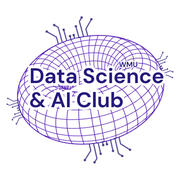
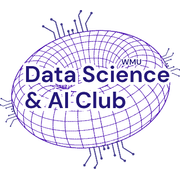
Add branded OG card and fix remaining meta/SEO gaps
Social previews now use a purpose-built 1200x630 card: the spring '26 club
photo with the logo and name stamped into a cream footer band. JPEG rather
than WebP because a few crawlers still skip WebP previews.

Also:
- trim the description to 152 chars so it isn't truncated in search results
- add theme-color and a web app manifest
- add a 32x32 favicon plus 192/512 manifest icons, all regenerated from the
  transparent logo trimmed to its artwork bounds

diff --git a/scripts/create-favicon.js b/scripts/create-favicon.js
@@ -1,26 +1,35 @@
+// Regenerates every raster icon from the club logo:
+//
+//     node scripts/create-favicon.js
+//
+// favicon.ico is not produced here (sharp can't write ICO) — the PNG + apple
+// icons cover every modern browser, and app/favicon.ico stays as the fallback.
 const sharp = require('sharp');
-const fs = require('fs');
 const path = require('path');
 
-async function createFavicon() {
-  try {
-    // Path to the source image (white-background club logo)
-    const inputPath = path.join(__dirname, '../public/dsaic-logo-white.png');
-    // Path to save the favicon.ico
-    const outputPath = path.join(__dirname, '../public/favicon.ico');
-    
-    // Resize to 32x32 (standard favicon size) and convert to ICO
-    await sharp(inputPath)
-      .resize(32, 32)
-      .toFile(outputPath.replace('.ico', '.png'));
-    
-    console.log('Favicon created successfully!');
-    console.log('Note: Since sharp cannot directly output .ico format, we\'ve created a PNG.');
-    console.log('You\'ll need to manually convert this to ICO using a tool like https://convertio.co/png-ico/');
-    
-  } catch (error) {
-    console.error('Error creating favicon:', error);
-  }
-}
+// The transparent logo, trimmed to its artwork bounds and flattened onto white —
+// the padded white-background copy wastes pixels that matter at 32x32.
+const SOURCE = path.join(__dirname, '../public/dsaic-logo.png');
 
-createFavicon();
+const ICONS = [
+  ['favicon-32x32.png', 32],
+  ['favicon.png', 64],
+  ['apple-touch-icon.png', 180],
+  ['icon-192.png', 192],
+  ['icon-512.png', 512],
+];
+
+Promise.all(
+  ICONS.map(([name, size]) =>
+    sharp(SOURCE)
+      .trim()
+      .resize(size, size, { fit: 'contain', background: '#ffffff00' })
+      .flatten({ background: '#ffffff' })
+      .png()
+      .toFile(path.join(__dirname, '../public', name))
+      .then(() => console.log(`wrote public/${name} (${size}x${size})`))
+  )
+).catch((error) => {
+  console.error(error);
+  process.exit(1);
+});

diff --git a/app/layout.tsx b/app/layout.tsx
@@ -1,9 +1,9 @@
-import type { Metadata } from "next";
+import type { Metadata, Viewport } from "next";
 import Script from "next/script";
 import "./globals.css";
 import SmoothScroll from "@/components/SmoothScroll";
 import { Inter, Space_Grotesk, JetBrains_Mono } from 'next/font/google';
-import { SITE_URL, SITE_NAME, SITE_DESCRIPTION, SOCIAL_LINKS, SOCIAL_IMAGE } from "@/lib/site";
+import { SITE_URL, SITE_NAME, SITE_DESCRIPTION, SOCIAL_LINKS, SOCIAL_IMAGE, THEME_COLOR } from "@/lib/site";
 
 // Define fonts with next/font. Only ship the weights actually used on the
 // site — the hero heading is the LCP element, so every extra font byte
@@ -69,6 +69,7 @@ export const metadata: Metadata = {
         width: SOCIAL_IMAGE.width,
         height: SOCIAL_IMAGE.height,
         alt: SOCIAL_IMAGE.alt,
+        type: SOCIAL_IMAGE.type,
       },
     ],
   },
@@ -90,13 +91,20 @@ export const metadata: Metadata = {
   },
   icons: {
     icon: [
-      { url: "/favicon.png", type: "image/png" },
+      { url: "/favicon-32x32.png", sizes: "32x32", type: "image/png" },
+      { url: "/favicon.png", sizes: "64x64", type: "image/png" },
     ],
     shortcut: "/favicon.png",
     apple: [
       { url: "/apple-touch-icon.png", sizes: "180x180", type: "image/png" },
     ],
   },
+  manifest: "/manifest.webmanifest",
+};
+
+// Tints the mobile browser toolbar to match the site.
+export const viewport: Viewport = {
+  themeColor: THEME_COLOR,
 };
 
 // schema.org structured data — gives search engines and AI agents a machine-readable

diff --git a/lib/site.ts b/lib/site.ts
@@ -10,8 +10,9 @@ export const SITE_URL = (
 
 export const SITE_NAME = 'Data Science & AI Club at WMU';
 
+// Kept under 160 characters so search results and link previews show it whole.
 export const SITE_DESCRIPTION =
-  'Student club at Western Michigan University focused on data science, AI, and machine learning. Open to all majors — collaborate on real-world projects, connect with industry, and learn together.';
+  'Student club at Western Michigan University for data science, AI, and machine learning. Open to all majors — build real projects, connect with industry.';
 
 // Official social / organization profiles, surfaced to crawlers and AI agents
 // via schema.org `sameAs`.
@@ -22,10 +23,16 @@ export const SOCIAL_LINKS = [
   'https://github.com/Data-Science-Club-at-WMU',
 ];
 
-// Landscape image used for link previews (Open Graph / Twitter cards).
+// Link preview card (Open Graph / Twitter). Built by scripts/create-og-image.py
+// at the 1200x630 every platform crops to. JPEG rather than WebP because a few
+// crawlers (notably LinkedIn) still skip WebP previews.
 export const SOCIAL_IMAGE = {
-  url: '/club-spring-26.webp',
-  width: 1310,
-  height: 922,
+  url: '/og-image.jpg',
+  width: 1200,
+  height: 630,
   alt: 'Members of the Data Science & AI Club at Western Michigan University',
+  type: 'image/jpeg',
 };
+
+// Brand color for the mobile browser toolbar and the web app manifest.
+export const THEME_COLOR = '#25197A';

diff --git a/app/manifest.ts b/app/manifest.ts
@@ -1,0 +1,21 @@
+import type { MetadataRoute } from "next";
+import { SITE_NAME, SITE_DESCRIPTION, THEME_COLOR } from "@/lib/site";
+
+// Served at /manifest.webmanifest — enables "Add to Home Screen" on Android
+// and gives the installed app its name, icons, and colors.
+export default function manifest(): MetadataRoute.Manifest {
+  return {
+    name: SITE_NAME,
+    short_name: "DSAIC",
+    description: SITE_DESCRIPTION,
+    start_url: "/",
+    display: "standalone",
+    background_color: "#FAF6EE",
+    theme_color: THEME_COLOR,
+    icons: [
+      { src: "/icon-192.png", sizes: "192x192", type: "image/png" },
+      { src: "/icon-512.png", sizes: "512x512", type: "image/png" },
+      { src: "/icon-512.png", sizes: "512x512", type: "image/png", purpose: "maskable" },
+    ],
+  };
+}

diff --git a/scripts/create-og-image.py b/scripts/create-og-image.py
@@ -1,0 +1,76 @@
+#!/usr/bin/env python3
+"""Build the 1200x630 social share card: club photo + branded footer band.
+
+    python3 scripts/create-og-image.py
+
+Writes public/og-image.jpg. Space Grotesk (the site heading font) is fetched
+from Google Fonts once and cached in .cache/fonts/.
+"""
+
+import urllib.request
+from pathlib import Path
+
+from PIL import Image, ImageDraw, ImageFont
+
+ROOT = Path(__file__).resolve().parent.parent
+PHOTO = ROOT / "public" / "club-spring-26.webp"
+LOGO = ROOT / "public" / "dsaic-logo.png"
+OUT = ROOT / "public" / "og-image.jpg"
+FONT_DIR = ROOT / ".cache" / "fonts"
+
+FONT_URLS = {
+    "SpaceGrotesk-Bold.ttf": "https://fonts.gstatic.com/s/spacegrotesk/v22/V8mQoQDjQSkFtoMM3T6r8E7mF71Q-gOoraIAEj4PVksj.ttf",
+    "SpaceGrotesk-Medium.ttf": "https://fonts.gstatic.com/s/spacegrotesk/v22/V8mQoQDjQSkFtoMM3T6r8E7mF71Q-gOoraIAEj7aUUsj.ttf",
+}
+
+W, H = 1200, 630
+BAND_H = 150          # footer band height
+RULE_H = 5            # violet rule on top of the band
+PAD = 52              # left/right padding inside the band
+CREAM = (250, 246, 238)
+INK = (37, 25, 122)
+VIOLET = (114, 67, 193)
+
+
+def font(name, size):
+    path = FONT_DIR / name
+    if not path.exists():
+        FONT_DIR.mkdir(parents=True, exist_ok=True)
+        urllib.request.urlretrieve(FONT_URLS[name], path)
+    return ImageFont.truetype(str(path), size)
+
+
+def cover_crop(im, w, h):
+    """Center-crop to the target aspect, biased upward to keep heads in frame."""
+    target = w / h
+    if im.width / im.height > target:
+        new_w = round(im.height * target)
+        box = ((im.width - new_w) // 2, 0, (im.width - new_w) // 2 + new_w, im.height)
+    else:
+        new_h = round(im.width / target)
+        top = round((im.height - new_h) * 0.15)  # trim mostly from the floor
+        box = (0, top, im.width, top + new_h)
+    return im.resize((w, h), Image.LANCZOS, box=box)
+
+
+card = cover_crop(Image.open(PHOTO).convert("RGB"), W, H)
+draw = ImageDraw.Draw(card)
+
+band_top = H - BAND_H
+draw.rectangle([0, band_top, W, H], fill=CREAM)
+draw.rectangle([0, band_top, W, band_top + RULE_H], fill=VIOLET)
+
+logo = Image.open(LOGO).convert("RGBA")
+logo_h = 112
+logo = logo.resize((round(logo.width * logo_h / logo.height), logo_h), Image.LANCZOS)
+logo_y = band_top + RULE_H + (BAND_H - RULE_H - logo_h) // 2
+card.paste(logo, (PAD, logo_y), logo)
+
+text_x = PAD + logo.width + 30
+title = font("SpaceGrotesk-Bold.ttf", 47)
+sub = font("SpaceGrotesk-Medium.ttf", 25)
+draw.text((text_x, band_top + 47), "Data Science & AI Club", font=title, fill=INK, anchor="ls")
+draw.text((text_x, band_top + 103), "Western Michigan University  ·  dscwmu.org", font=sub, fill=VIOLET, anchor="ls")
+
+card.save(OUT, quality=88, optimize=True, progressive=True)
+print(f"wrote {OUT.relative_to(ROOT)} ({OUT.stat().st_size // 1024} KB) {card.size}")
